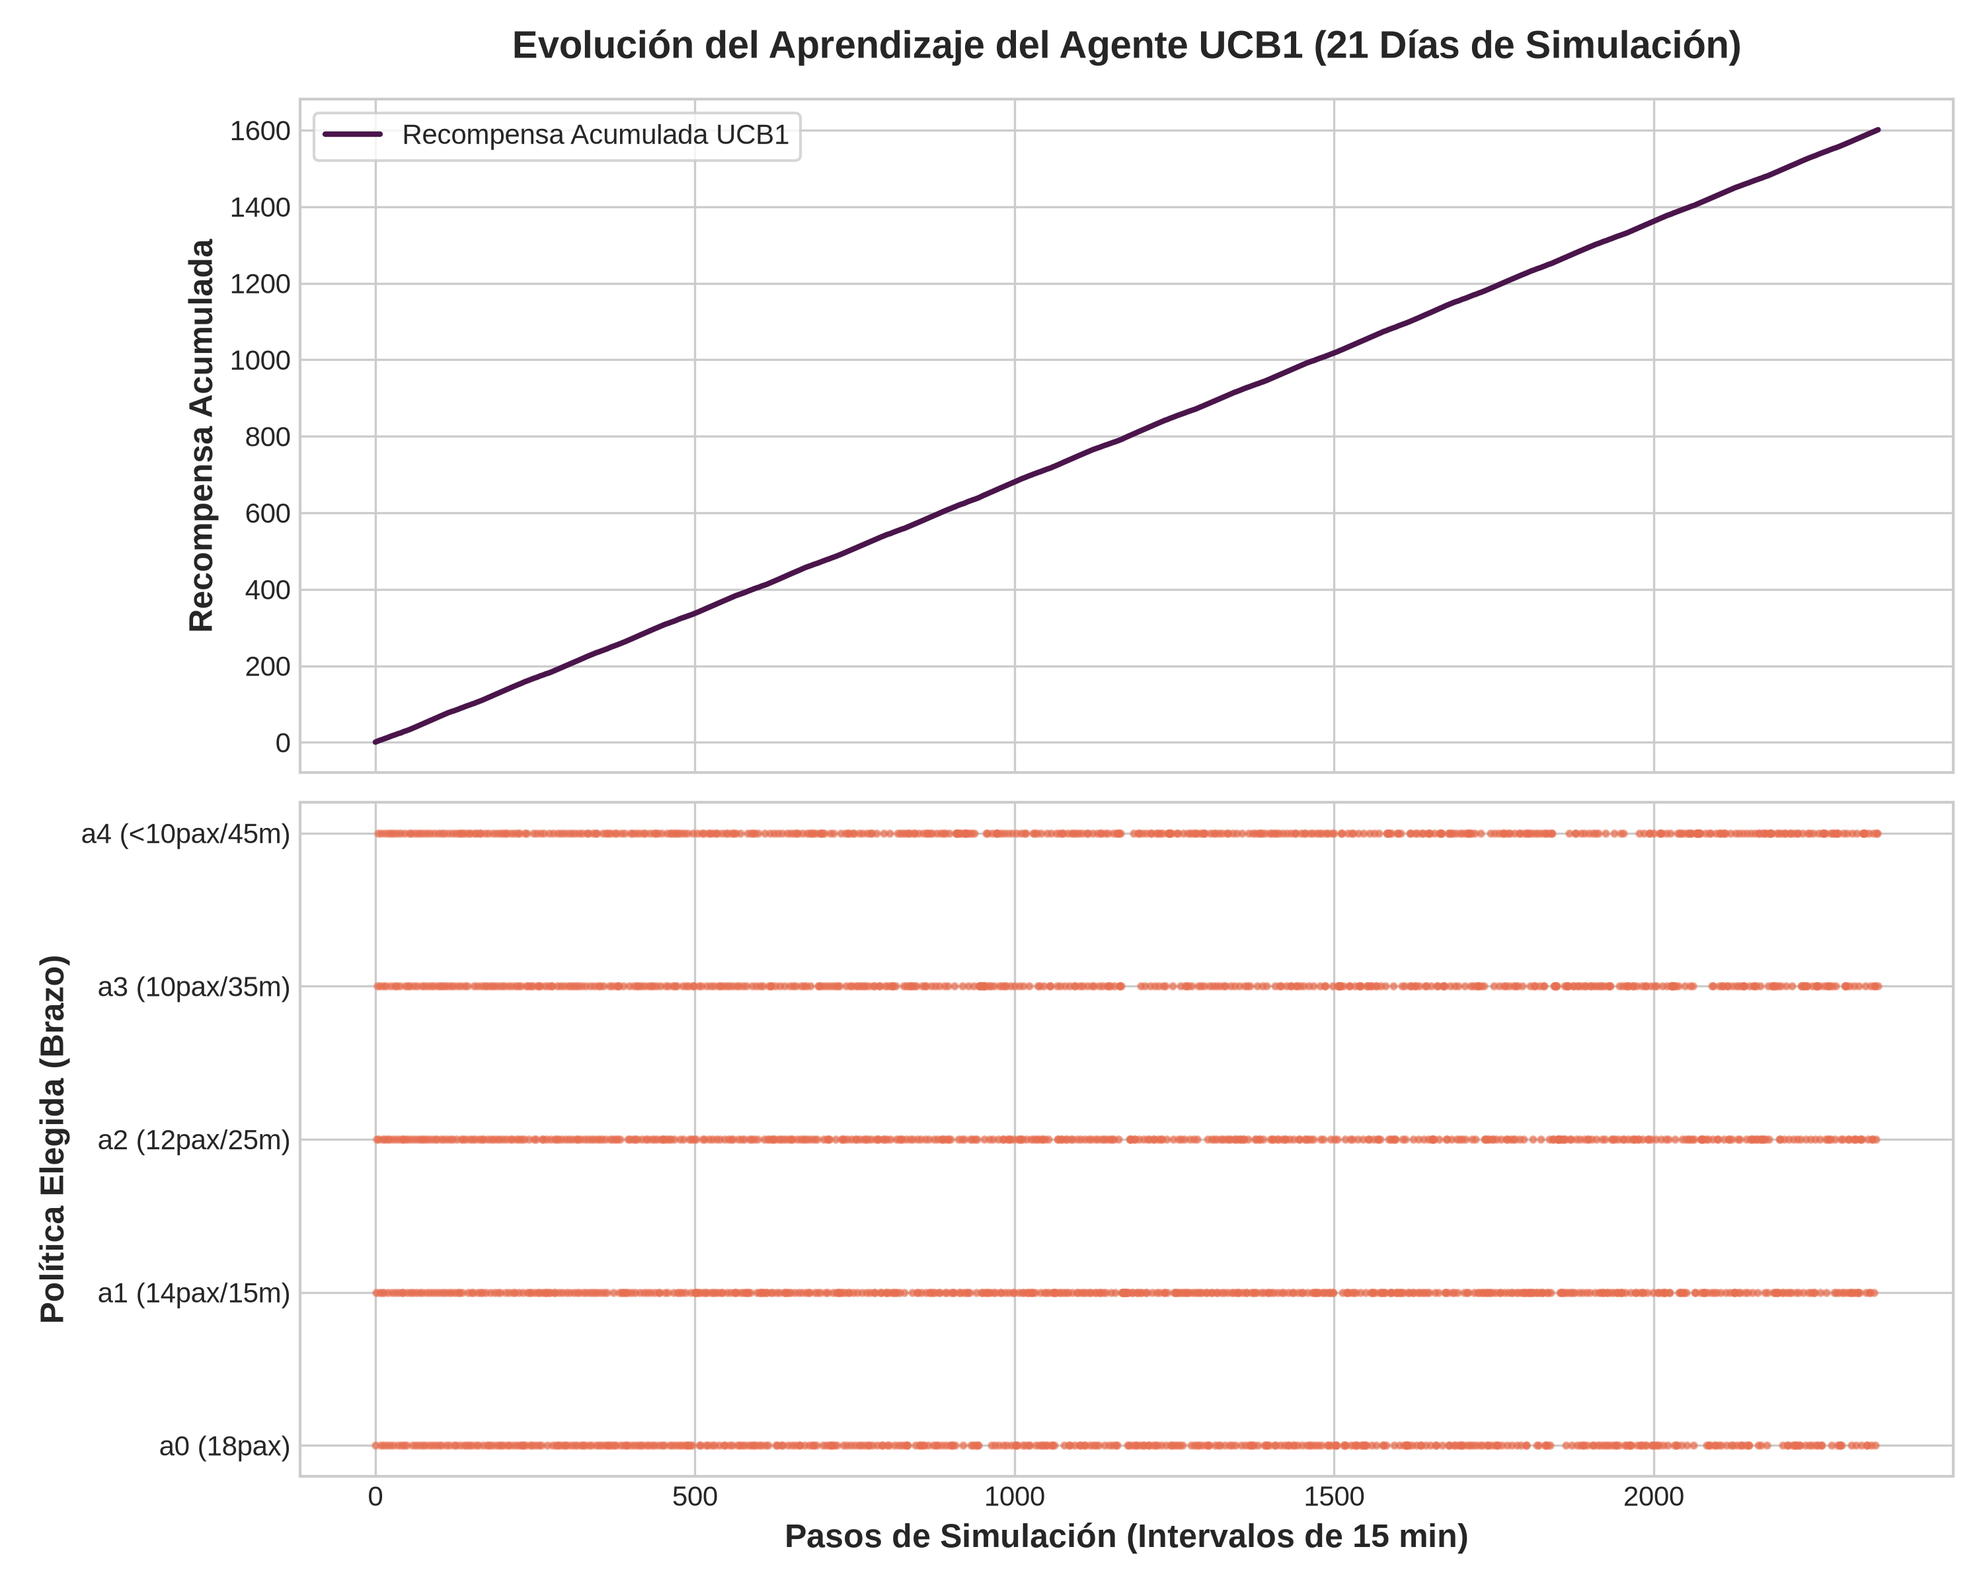
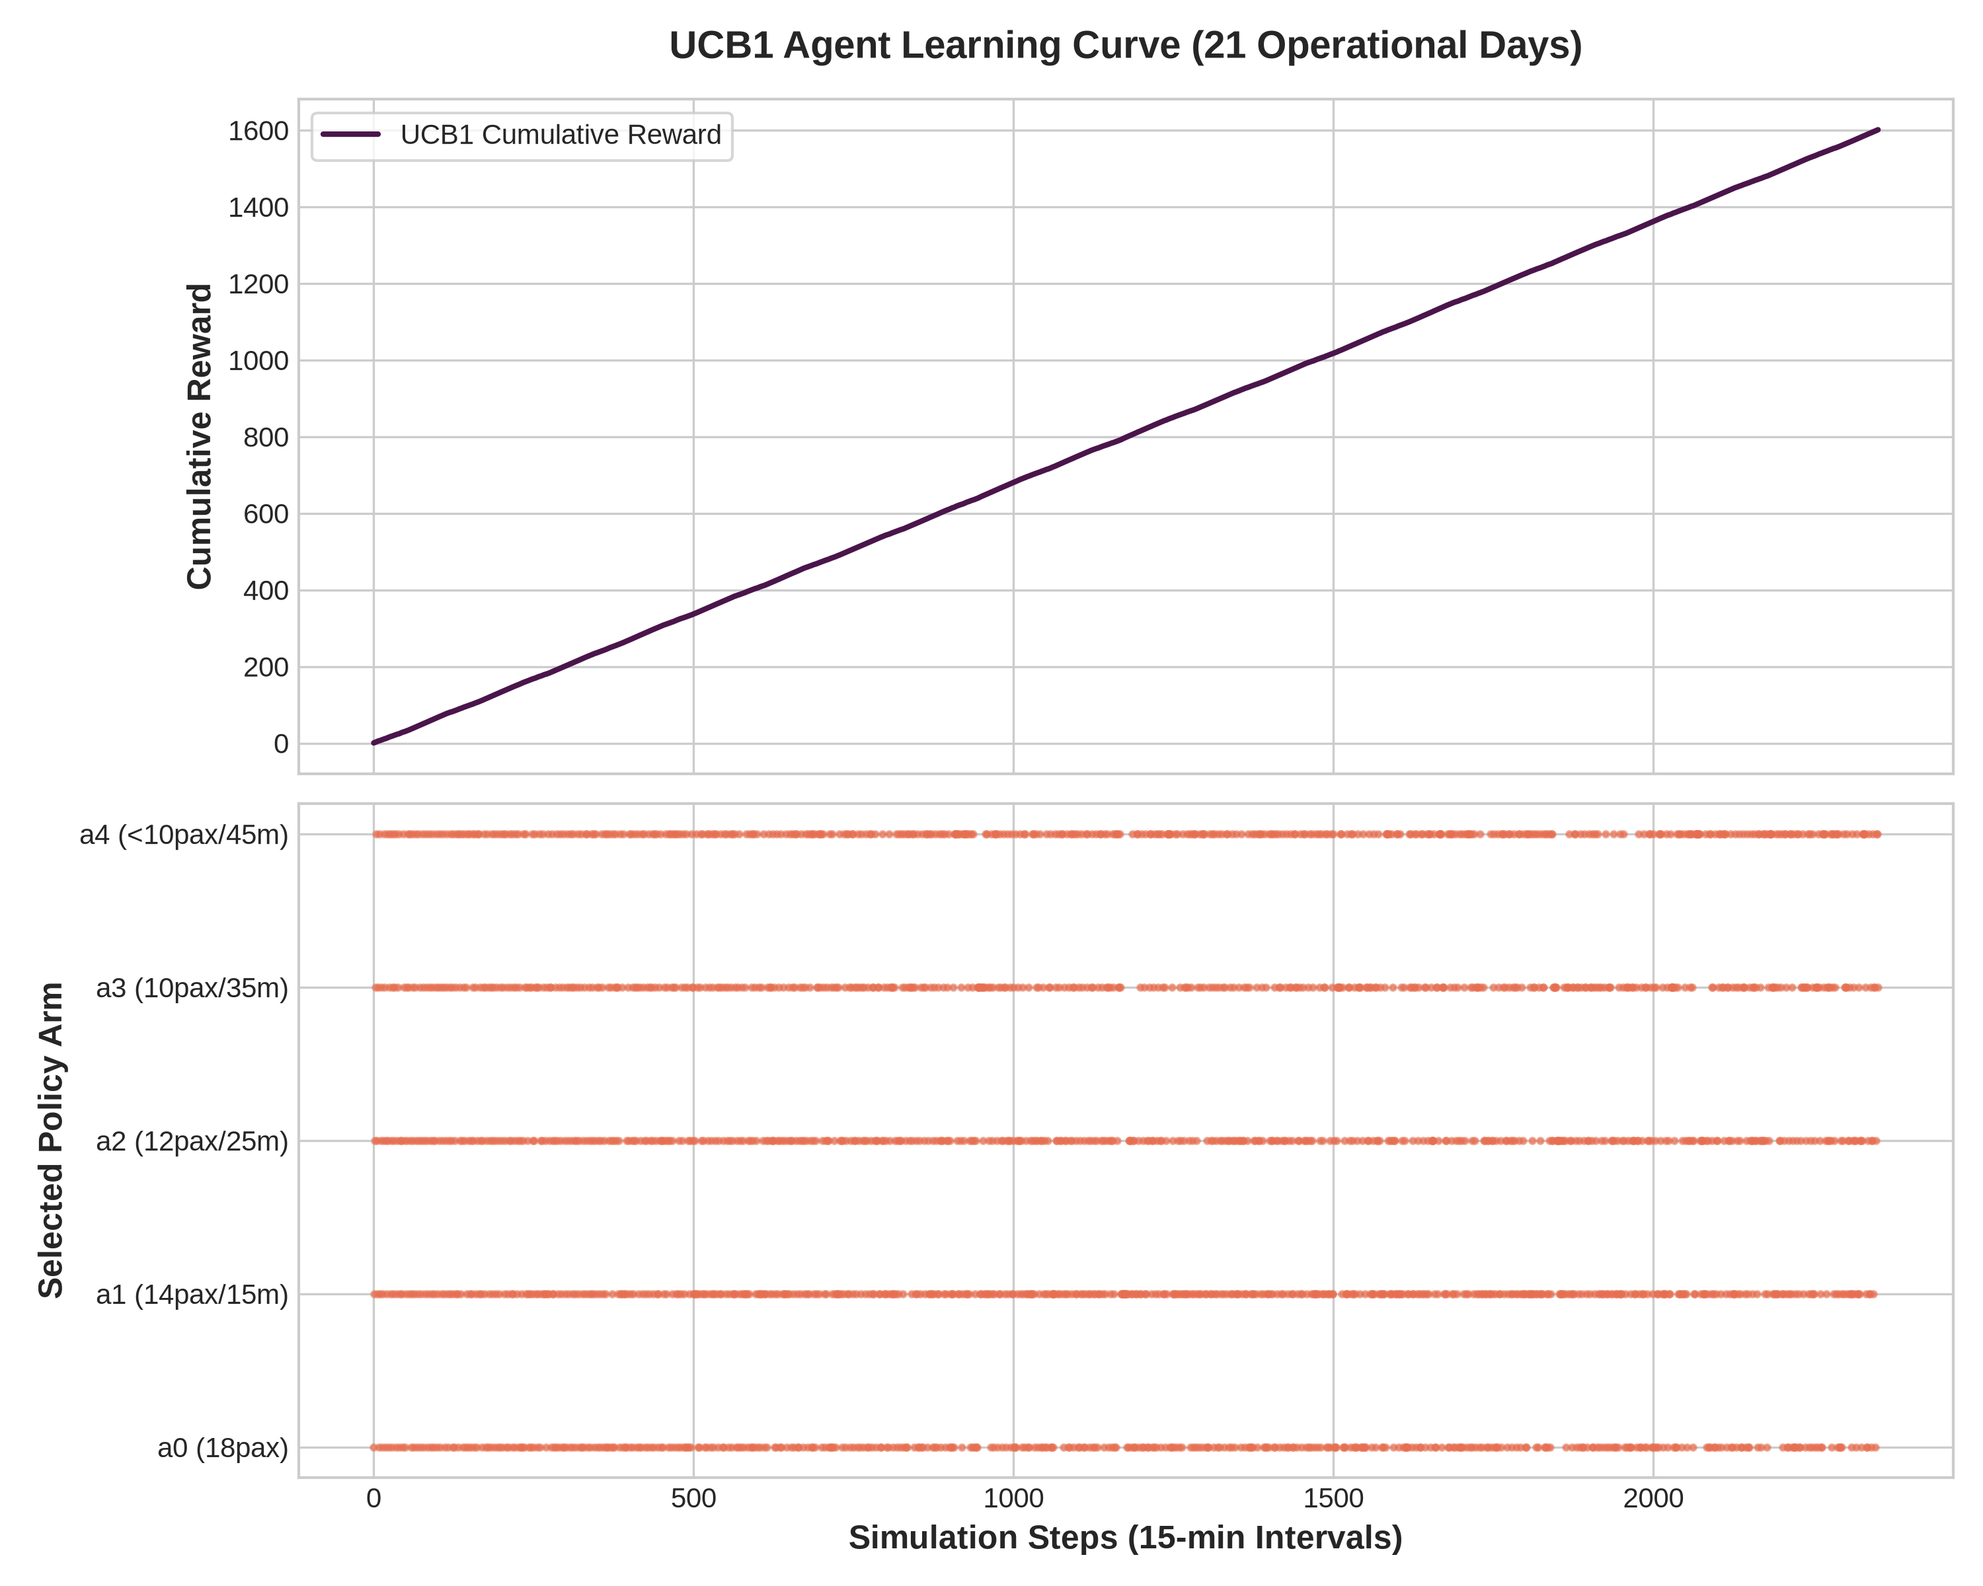
style(comments): Translate Python docstrings and comments to English

diff --git a/03_run_ucb.py b/03_run_ucb.py
@@ -7,17 +7,21 @@ from src.config import DATA_DIR, PLOTS_DIR
 from src.ucb_bandit import UCB1Agent, evaluate_policy_dispatch, calculate_reward
 
 def run_ucb_simulation():
-    print("🤖 Iniciando simulación del Algoritmo UCB1 (Multi-Armed Bandit)...")
+    """
+    Executes the 21-day UCB1 Multi-Armed Bandit simulation, compares policy performance
+    against the traditional baseline (18 pax full dispatch), and exports analytical plots.
+    """
+    print("🤖 Starting UCB1 Multi-Armed Bandit Simulation...")
     
     csv_path = DATA_DIR / 'demand_dataset.csv'
     if not csv_path.exists():
-        raise FileNotFoundError(f"No se encontró {csv_path}. Ejecuta primero 01_generate_dataset.py")
+        raise FileNotFoundError(f"Dataset not found at {csv_path}. Please execute 01_generate_dataset.py first.")
         
     df = pd.read_csv(csv_path)
     
     agent = UCB1Agent(n_arms=5, c=1.414)
     
-    # Listas para almacenar métricas a lo largo del tiempo
+    # Tracking metrics across simulation intervals
     history_rewards = []
     history_actions = []
     history_wait_times_ucb = []
@@ -28,25 +32,25 @@ def run_ucb_simulation():
     total_dispatches_ucb = 0
     total_dispatches_trad = 0
     
-    # Recorrer cada intervalo del dataset (2,352 registros)
+    # Iterate through each 15-minute simulation interval (2,352 records)
     for idx, row in df.iterrows():
         students_waiting = int(row['alumnos_esperando'])
         wait_time_accum = float(row['tiempo_espera_acum'])
         
-        # 1. El agente UCB1 selecciona una política (brazo a_0 ... a_4)
+        # 1. Agent selects policy arm (a0 ... a4)
         action = agent.select_action()
         history_actions.append(action)
         
-        # 2. Evaluar desempeño bajo UCB1
+        # 2. Evaluate performance under UCB1 policy
         dispatched_ucb, pax_ucb, empty_ucb = evaluate_policy_dispatch(action, students_waiting, wait_time_accum)
         
-        # 3. Evaluar desempeño bajo Política Tradicional (a_0: salir solo si hay 18 pax)
+        # 3. Evaluate baseline traditional policy (a0: 18 pax full dispatch)
         dispatched_trad, pax_trad, empty_trad = evaluate_policy_dispatch(0, students_waiting, wait_time_accum)
         
         leftover_ucb = max(0, students_waiting - pax_ucb)
         leftover_trad = max(0, students_waiting - pax_trad)
         
-        # 4. Calcular recompensa R en [0, 1] para la decisión elegida por UCB1
+        # 4. Compute normalized reward R in [0, 1] for UCB1 action
         reward = calculate_reward(
             wait_time_min=wait_time_accum,
             leftover_students=leftover_ucb,
@@ -66,7 +70,7 @@ def run_ucb_simulation():
             history_wait_times_trad.append(wait_time_accum)
             history_empty_seats_trad.append(empty_trad)
 
-    # Convertir a numpy arrays para estadísticas
+    # Compute summary statistics
     avg_reward = float(np.mean(history_rewards))
     cum_reward = float(np.sum(history_rewards))
     
@@ -79,74 +83,73 @@ def run_ucb_simulation():
     avg_empty_ucb = float(np.mean(history_empty_seats_ucb)) if history_empty_seats_ucb else 0.0
     avg_empty_trad = float(np.mean(history_empty_seats_trad)) if history_empty_seats_trad else 0.0
 
-    print("\n--- 🏆 RESULTADOS COMPARATIVOS: POLÍTICA TRADICIONAL VS ALGORITMO UCB1 ---")
-    print(f"🔹 Recompensa Promedio Acumulada UCB1: {avg_reward:.4f} (Máximo teórico 1.0)")
-    print(f"🔹 Recompensa Total Acumulada UCB1:   {cum_reward:.1f} pts")
-    print("\n📊 Métricas clave de rendimiento:")
-    print(f"  • Tiempo Promedio de Espera:  Tradicional = {avg_wait_trad:.1f} min  |  UCB1 = {avg_wait_ucb:.1f} min  (Reducción: {((avg_wait_trad - avg_wait_ucb)/avg_wait_trad)*100:.1f}%)")
-    print(f"  • Tiempo Máximo de Espera:    Tradicional = {max_wait_trad:.1f} min  |  UCB1 = {max_wait_ucb:.1f} min")
-    print(f"  • Despachos Efectivos:        Tradicional = {total_dispatches_trad} viajes |  UCB1 = {total_dispatches_ucb} viajes")
-    print(f"  • Asientos Vacíos Promedio:   Tradicional = {avg_empty_trad:.1f} pax  |  UCB1 = {avg_empty_ucb:.1f} pax")
+    print("\n--- 🏆 COMPARATIVE RESULTS: TRADITIONAL POLICY VS UCB1 AGENT ---")
+    print(f"🔹 Average Cumulative Reward UCB1: {avg_reward:.4f} (Theoretical max 1.0)")
+    print(f"🔹 Total Cumulative Reward UCB1:   {cum_reward:.1f} pts")
+    print("\n📊 Key Performance Metrics:")
+    print(f"  • Average Waiting Time:  Traditional = {avg_wait_trad:.1f} min  |  UCB1 = {avg_wait_ucb:.1f} min")
+    print(f"  • Maximum Waiting Time:  Traditional = {max_wait_trad:.1f} min  |  UCB1 = {max_wait_ucb:.1f} min")
+    print(f"  • Total Dispatches:      Traditional = {total_dispatches_trad} trips |  UCB1 = {total_dispatches_ucb} trips")
+    print(f"  • Average Empty Seats:   Traditional = {avg_empty_trad:.1f} pax  |  UCB1 = {avg_empty_ucb:.1f} pax")
     
-    print("\n🎯 Elección de Brazos (Políticas Seleccionadas por UCB1):")
+    print("\n🎯 Arm Selection Frequency (Policies Chosen by UCB1):")
     for a in range(agent.n_arms):
         pct = (agent.counts[a] / agent.total_steps) * 100
-        print(f"  • {agent.arm_names[a]}: {agent.counts[a]} elecciones ({pct:.1f}%) | Q_bar = {agent.means[a]:.3f}")
+        print(f"  • {agent.arm_names[a]}: {agent.counts[a]} choices ({pct:.1f}%) | Q_bar = {agent.means[a]:.3f}")
 
-    # Estilo de gráficas profesional
+    # Plot styling
     plt.style.use('seaborn-v0_8-whitegrid' if 'seaborn-v0_8-whitegrid' in plt.style.available else 'default')
-    palette = ['#4A154B', '#2A9D8F', '#E76F51', '#F4A261', '#E9C46A']
 
-    # 📈 FIGURA 2: Recompensa Acumulada y Selección de Acciones
+    # 📈 FIGURE 2: Cumulative Reward and Action Selection History
     fig, (ax1, ax2) = plt.subplots(2, 1, figsize=(10, 8), sharex=True)
     
     cum_rewards_series = np.cumsum(history_rewards)
-    ax1.plot(cum_rewards_series, color='#4A154B', linewidth=2, label='Recompensa Acumulada UCB1')
-    ax1.set_ylabel('Recompensa Acumulada', fontsize=12, fontweight='bold')
-    ax1.set_title('Evolución del Aprendizaje del Agente UCB1 (21 Días de Simulación)', fontsize=14, fontweight='bold', pad=15)
+    ax1.plot(cum_rewards_series, color='#4A154B', linewidth=2, label='UCB1 Cumulative Reward')
+    ax1.set_ylabel('Cumulative Reward', fontsize=12, fontweight='bold')
+    ax1.set_title('UCB1 Agent Learning Curve (21 Operational Days)', fontsize=14, fontweight='bold', pad=15)
     ax1.legend(loc='upper left', frameon=True)
 
     ax2.plot(history_actions, color='#E76F51', alpha=0.6, marker='o', linestyle='none', markersize=2)
     ax2.set_yticks(range(5))
     ax2.set_yticklabels(['a0 (18pax)', 'a1 (14pax/15m)', 'a2 (12pax/25m)', 'a3 (10pax/35m)', 'a4 (<10pax/45m)'])
-    ax2.set_xlabel('Pasos de Simulación (Intervalos de 15 min)', fontsize=12, fontweight='bold')
-    ax2.set_ylabel('Política Elegida (Brazo)', fontsize=12, fontweight='bold')
+    ax2.set_xlabel('Simulation Steps (15-min Intervals)', fontsize=12, fontweight='bold')
+    ax2.set_ylabel('Selected Policy Arm', fontsize=12, fontweight='bold')
     
     plt.tight_layout()
     fig2_path = PLOTS_DIR / 'fig2_ucb_recompensa.png'
     plt.savefig(fig2_path, dpi=300)
     plt.close()
-    print(f"\n✅ Gráfica 2 guardada en: {fig2_path}")
+    print(f"\n✅ Figure 2 saved at: {fig2_path}")
 
-    # 📈 FIGURA 3: Comparativa Cuantitativa Tradicional vs UCB1
+    # 📈 FIGURE 3: Quantitative Comparison (Traditional vs UCB1)
     fig, (ax3, ax4) = plt.subplots(1, 2, figsize=(12, 5))
 
     metrics_df = pd.DataFrame({
-        'Política': ['Tradicional (18 pax)', 'Algoritmo UCB1'],
-        'Tiempo Espera Prom (min)': [avg_wait_trad, avg_wait_ucb],
-        'Tiempo Espera Máx (min)': [max_wait_trad, max_wait_ucb]
+        'Policy': ['Traditional (18 pax)', 'UCB1 Algorithm'],
+        'Average Wait Time (min)': [avg_wait_trad, avg_wait_ucb],
+        'Maximum Wait Time (min)': [max_wait_trad, max_wait_ucb]
     })
 
-    sns.barplot(data=metrics_df, x='Política', y='Tiempo Espera Prom (min)', ax=ax3, palette=['#E76F51', '#2A9D8F'])
-    ax3.set_title('Tiempo Promedio de Espera por Alumno', fontsize=12, fontweight='bold')
-    ax3.set_ylabel('Minutos de Espera', fontsize=11)
+    sns.barplot(data=metrics_df, x='Policy', y='Average Wait Time (min)', hue='Policy', ax=ax3, palette=['#E76F51', '#2A9D8F'], legend=False)
+    ax3.set_title('Average Passenger Waiting Time', fontsize=12, fontweight='bold')
+    ax3.set_ylabel('Wait Time (Minutes)', fontsize=11)
     for p in ax3.patches:
         ax3.annotate(f"{p.get_height():.1f} min", (p.get_x() + p.get_width() / 2., p.get_height() / 2),
                      ha='center', va='center', color='white', fontweight='bold', fontsize=12)
 
-    sns.barplot(data=metrics_df, x='Política', y='Tiempo Espera Máx (min)', ax=ax4, palette=['#E76F51', '#2A9D8F'])
-    ax4.set_title('Tiempo Máximo de Espera Registrado', fontsize=12, fontweight='bold')
-    ax4.set_ylabel('Minutos Máximos', fontsize=11)
+    sns.barplot(data=metrics_df, x='Policy', y='Maximum Wait Time (min)', hue='Policy', ax=ax4, palette=['#E76F51', '#2A9D8F'], legend=False)
+    ax4.set_title('Maximum Passenger Waiting Time', fontsize=12, fontweight='bold')
+    ax4.set_ylabel('Max Wait Time (Minutes)', fontsize=11)
     for p in ax4.patches:
         ax4.annotate(f"{p.get_height():.1f} min", (p.get_x() + p.get_width() / 2., p.get_height() / 2),
                      ha='center', va='center', color='white', fontweight='bold', fontsize=12)
 
-    plt.suptitle('Comparación de Impacto: Política Tradicional vs Algoritmo UCB1', fontsize=14, fontweight='bold', y=1.02)
+    plt.suptitle('Performance Benchmark: Traditional Baseline vs UCB1 Agent', fontsize=14, fontweight='bold', y=1.02)
     plt.tight_layout()
     fig3_path = PLOTS_DIR / 'fig3_comparativa.png'
     plt.savefig(fig3_path, dpi=300)
     plt.close()
-    print(f"✅ Gráfica 3 guardada en: {fig3_path}")
+    print(f"✅ Figure 3 saved at: {fig3_path}")
 
 if __name__ == '__main__':
     run_ucb_simulation()

diff --git a/src/ucb_bandit.py b/src/ucb_bandit.py
@@ -4,46 +4,46 @@ from typing import Dict, List, Tuple
 
 class UCB1Agent:
     """
-    Agente Algoritmo UCB1 (Upper Confidence Bound 1) para la optimización
-    dinámica de políticas de despacho de combis en la UPP.
+    UCB1 (Upper Confidence Bound 1) Multi-Armed Bandit Agent for dynamic
+    van dispatch policy optimization at Universidad Politécnica de Pachuca (UPP).
     """
     
     def __init__(self, n_arms: int = 5, c: float = 1.414):
         self.n_arms = n_arms
         self.c = c
-        self.counts = np.zeros(n_arms, dtype=int)     # N(a): número de veces que se eligió la acción a
-        self.rewards = np.zeros(n_arms, dtype=float)   # Suma acumulada de recompensas para la acción a
-        self.means = np.zeros(n_arms, dtype=float)     # Q(a): recompensa promedio estimada
+        self.counts = np.zeros(n_arms, dtype=int)     # N(a): number of times action a was selected
+        self.rewards = np.zeros(n_arms, dtype=float)   # Total cumulative reward for action a
+        self.means = np.zeros(n_arms, dtype=float)     # Q(a): estimated mean reward for action a
         self.total_steps = 0
         
-        # Nombres descriptivos de las 5 políticas (brazos) requeridas por la profesora
+        # Descriptive titles for the 5 dispatch policy arms specified in the course rubric
         self.arm_names = [
-            "a0: Tradicional (18 pax rígidamente)",
-            "a1: Flex (>=14 pax tras 15 min)",
-            "a2: Flex (>=12 pax tras 25 min)",
-            "a3: Flex (>=10 pax tras 35 min)",
-            "a4: Salida Máxima (<10 pax tras 45 min)"
+            "a0: Traditional (18 pax strictly)",
+            "a1: Flex (>=14 pax after 15 min)",
+            "a2: Flex (>=12 pax after 25 min)",
+            "a3: Flex (>=10 pax after 35 min)",
+            "a4: Max Exit (<10 pax after 45 min)"
         ]
 
     def select_action(self) -> int:
         """
-        Selecciona la mejor acción a mediante la fórmula UCB1:
+        Select action 'a' using the UCB1 decision formula:
         Q_ucb(a) = Q_bar(a) + c * sqrt(ln(t) / N(a))
         """
         self.total_steps += 1
         
-        # Fase de exploración inicial: probar cada brazo al menos una vez
+        # Initial exploration phase: try each arm at least once
         for a in range(self.n_arms):
             if self.counts[a] == 0:
                 return a
         
-        # Calcular el término UCB1 para todos los brazos
+        # Compute UCB values for all candidate arms
         ucb_values = self.means + self.c * np.sqrt(np.log(self.total_steps) / self.counts)
         return int(np.argmax(ucb_values))
 
     def update(self, action: int, reward: float):
         """
-        Actualiza el conteo y la recompensa promedio acumulada para el brazo seleccionado.
+        Update action counts and rolling mean reward for the selected arm.
         """
         self.counts[action] += 1
         self.rewards[action] += reward
@@ -52,27 +52,27 @@ class UCB1Agent:
 
 def evaluate_policy_dispatch(action: int, students_waiting: int, wait_time_min: float) -> Tuple[bool, int, int]:
     """
-    Evalúa si la regla de la política (brazo) se cumple dado el estado actual del paradero.
+    Evaluates whether the policy rule (arm) triggers a vehicle dispatch given the current station state.
     
-    Retorna: (se_despacha: bool, pasajeros_abordados: int, asientos_vacios: int)
+    Returns: (should_dispatch: bool, passengers_boarded: int, empty_seats: int)
     """
     bus_capacity = 18
     should_dispatch = False
     
     if action == 0:
-        # a0: Salir solo con combi llena (18 pax)
+        # a0: Dispatch only when vehicle is full (18 pax)
         should_dispatch = (students_waiting >= bus_capacity)
     elif action == 1:
-        # a1: >= 14 personas y pasaron 15 min (o 18 pax)
+        # a1: >= 14 passengers and wait time >= 15 min (or 18 pax)
         should_dispatch = (students_waiting >= bus_capacity) or (students_waiting >= 14 and wait_time_min >= 15.0)
     elif action == 2:
-        # a2: >= 12 personas y pasaron 25 min (o 18 pax)
+        # a2: >= 12 passengers and wait time >= 25 min (or 18 pax)
         should_dispatch = (students_waiting >= bus_capacity) or (students_waiting >= 12 and wait_time_min >= 25.0)
     elif action == 3:
-        # a3: >= 10 personas y pasaron 35 min (o 18 pax)
+        # a3: >= 10 passengers and wait time >= 35 min (or 18 pax)
         should_dispatch = (students_waiting >= bus_capacity) or (students_waiting >= 10 and wait_time_min >= 35.0)
     elif action == 4:
-        # a4: < 10 personas y pasaron 45 min (o 18 pax)
+        # a4: < 10 passengers and wait time >= 45 min (or 18 pax)
         should_dispatch = (students_waiting >= bus_capacity) or (students_waiting >= 6 and wait_time_min >= 45.0)
 
     if should_dispatch and students_waiting > 0:
@@ -95,11 +95,11 @@ def calculate_reward(
     max_empty_norm: float = 18.0
 ) -> float:
     """
-    Calcula la recompensa R en el rango [0, 1] basada en la función de costo:
-    P = w1 * wait_time_norm + w2 * leftover_norm + w3 * empty_seats_norm
-    R = 1.0 - P
+    Calculates normalized reward R in [0, 1] based on weighted operational penalty:
+    Penalty = w1 * wait_norm + w2 * leftover_norm + w3 * empty_seats_norm
+    Reward = 1.0 - Penalty
     """
-    # Normalización min-max de cada componente entre 0 y 1
+    # Min-max normalization for each operational component
     norm_wait = min(1.0, wait_time_min / max_wait_norm)
     norm_leftover = min(1.0, leftover_students / max_leftover_norm)
     norm_empty = min(1.0, empty_seats / max_empty_norm)
